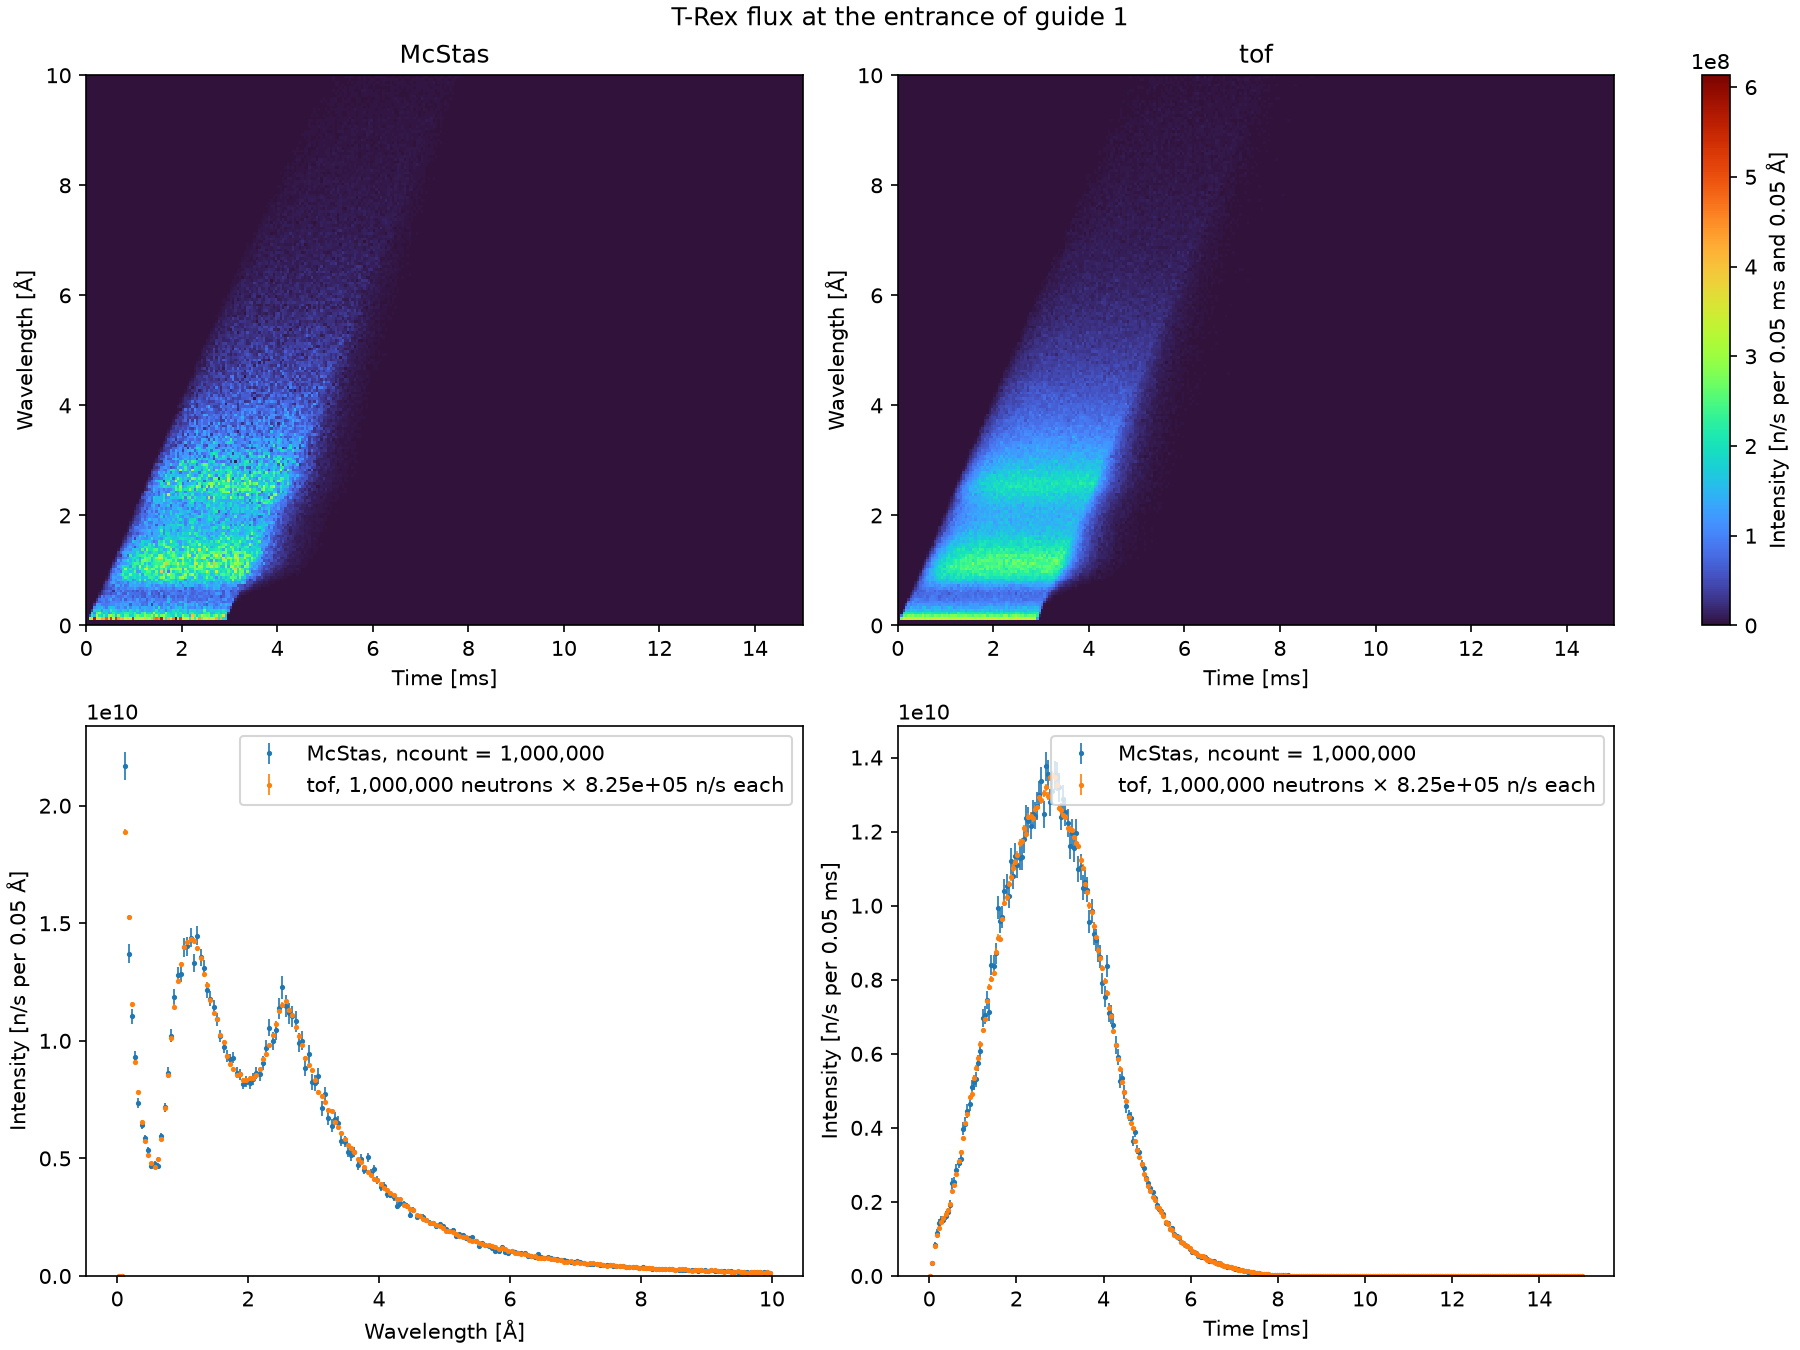
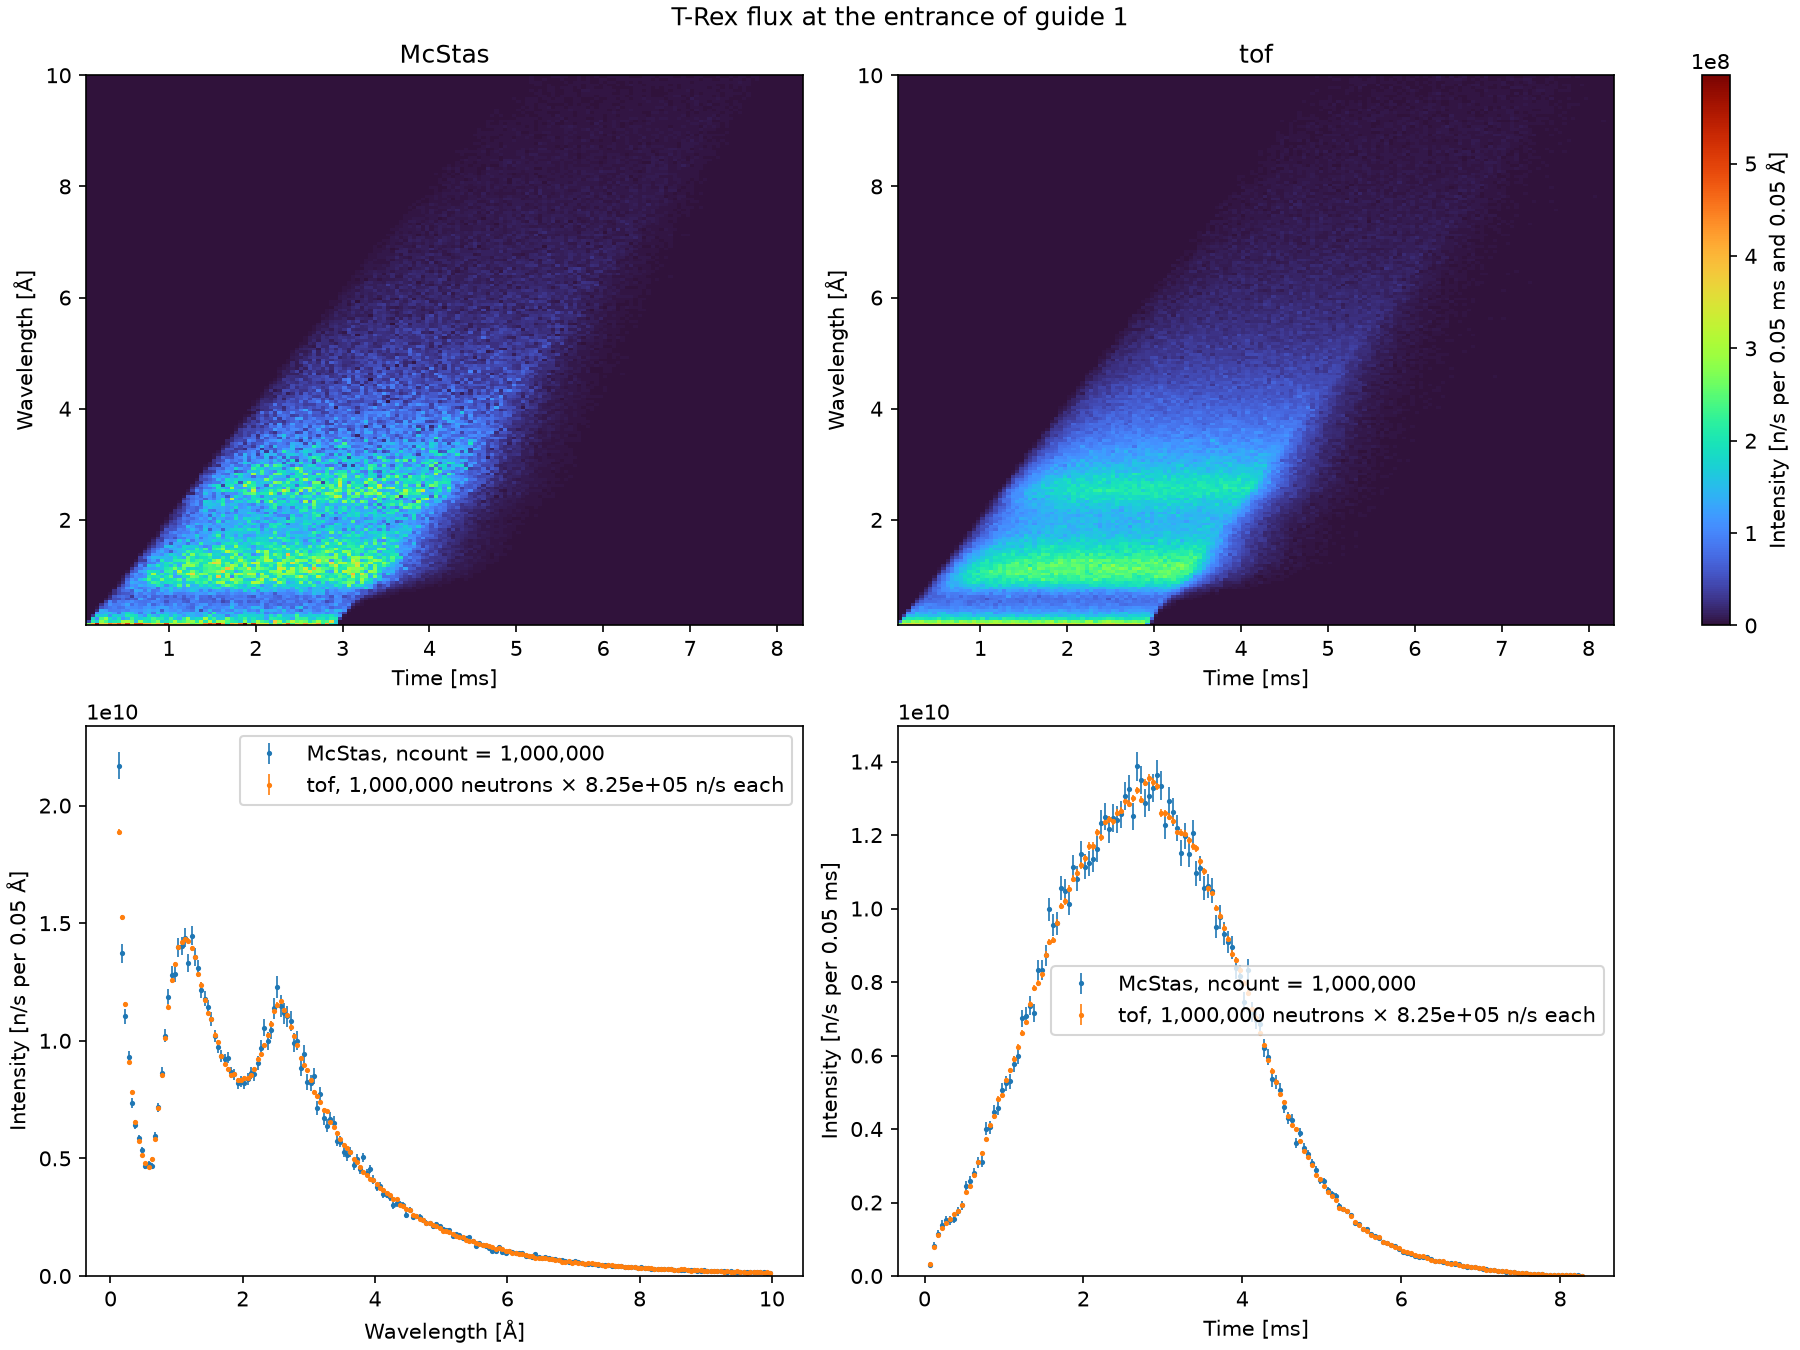
Move the source monitor to trex.monitors, and read the axes of monitors
source_monitor, beside beam_monitor and sample_monitor, sets its axes as
beam_monitor does: the band of the source, L_MIN to L_MAX, and the time
window of that band at SOURCE_MONITOR_Z, the entrance of guide 1, in bins
of SOURCE_MONITOR_LAMBDA_RESOLUTION and SOURCE_MONITOR_TIME_RESOLUTION,
0.05 Å and 0.05 ms. The axes are now 0.1 to 10 Å in 198 bins and 0.048 to
8.30 ms in 165, in place of 0 to 10 Å and 0 to 15 ms.

The source and extraction diagnostics read the bin edges from their
monitor's bin_limits, in place of working them out again. The Source page,
its figure and the monitors of the T-Rex details are made again.

diff --git a/src/mcdgs/instruments/trex/monitors.py b/src/mcdgs/instruments/trex/monitors.py
@@ -1,7 +1,8 @@
 """The monitors of T-Rex.
 
-Each monitor leaves the neutrons unchanged. The beam monitor sits in the middle of the bunker gap
-of row 29, after guide 4, on the arm of guide 4; the sample monitor at ``sample_pos``.
+Each monitor leaves the neutrons unchanged. The source monitor sits at the entrance of guide 1;
+the beam monitor in the middle of the bunker gap of row 29, after guide 4, on the arm of guide 4;
+the sample monitor at ``sample_pos``.
 """
 
 from mcdgs.core.components import Monitor_nD
@@ -12,12 +13,58 @@ from mcdgs.core.utils import bins_from_limits
 from .guides.bispectral import GUIDE_4_TILT, GUIDE_4A_IN_Z
 from .guides.extraction import z_along_arm
 
+SOURCE_MONITOR_Z = 1.895927  # m, cell B13, the entrance of guide 1
+SOURCE_MONITOR_LAMBDA_RESOLUTION = 0.05  # Å, the width of a wavelength bin
+SOURCE_MONITOR_TIME_RESOLUTION = 5e-5  # s, the width of a time bin, 0.05 ms
+
 BEAM_MONITOR_GAP_Z = 5.892  # m, cell B29
 BEAM_MONITOR_GAP_LENGTH = 0.02  # m, cell D29
 BEAM_MONITOR_Z = BEAM_MONITOR_GAP_Z + BEAM_MONITOR_GAP_LENGTH / 2  # m, mid-gap
-
 BEAM_MONITOR_LAMBDA_RESOLUTION = 0.02  # Å, the width of a wavelength bin
 BEAM_MONITOR_TIME_RESOLUTION = 5e-5  # s, the width of a time bin, 0.05 ms
+
+
+def source_monitor(
+    lambda_resolution: float = SOURCE_MONITOR_LAMBDA_RESOLUTION,
+    time_resolution: float = SOURCE_MONITOR_TIME_RESOLUTION,
+) -> Monitor_nD:
+    """Create the time and wavelength monitor at the entrance of guide 1.
+
+    It has the opening of guide 1 and is where guide 1 begins, ``SOURCE_MONITOR_Z`` from the
+    source on its axis, unrotated. It records one 2D map of time against wavelength, and leaves
+    the neutrons unchanged. The wavelength axis is the widest band the source simulates,
+    ``L_MIN`` to ``L_MAX``; the time axis is :func:`.monitor_time_limits` at
+    ``SOURCE_MONITOR_Z``, for that band and a pulse of ``ESS_SOURCE_LENGTH``.
+
+    Parameters
+    ----------
+    lambda_resolution:
+        Width of a wavelength bin, in Å. The axis has the fewest bins that cover the band, see
+        :func:`.bins_from_limits`.
+    time_resolution:
+        Width of a time bin, in s, likewise.
+
+    Returns
+    -------
+    :
+        A new monitor.
+    """
+    lambda_limits = (L_MIN, L_MAX)
+    time_limits = monitor_time_limits(SOURCE_MONITOR_Z, lambda_limits, ESS_SOURCE_LENGTH)
+    t_start, t_stop, t_bins = bins_from_limits(time_limits, time_resolution)
+    l_start, l_stop, l_bins = bins_from_limits(lambda_limits, lambda_resolution)
+    return Monitor_nD(
+        xwidth=0.089955,  # m, cell E13, the entrance of guide 1
+        yheight=0.029992,  # m, cell F13, the entrance of guide 1
+        restore_neutron=1,
+        options=(  # time in s, lambda in Å: one 2D map
+            f"time limits=[{t_start} {t_stop}] bins={t_bins} "
+            f"lambda limits=[{l_start} {l_stop}] bins={l_bins}"
+        ),
+        filename="source_monitor",  # the name of the monitor, in both models
+        at=[0, 0, SOURCE_MONITOR_Z],
+        relative="source",
+    )
 
 
 def beam_monitor(

diff --git a/src/mcdgs/diagnostics/trex/source.py b/src/mcdgs/diagnostics/trex/source.py
@@ -44,15 +44,13 @@ from mcdgs.core.components import ESS_butterfly, Monitor_nD
 from mcdgs.core.params import InstrParam
 from mcdgs.diagnostics.cli import output_folder, parse_out
 from mcdgs.diagnostics.compare import plot_comparison, read_comparison
+from mcdgs.instruments.trex.monitors import source_monitor
 from mcdgs.instruments.trex.sources import source
 from mcdgs.mcstas.simulation import Simulation
 from mcdgs.tof.builder import build_tof
 
+
 # --8<-- [start:trex_source]
-TIME_EDGES = np.linspace(0.0, 0.015, 301)  # s: the whole pulse and the flight up to 10 Å
-WAVELENGTH_EDGES = np.linspace(0.0, 10.0, 201)  # Å: the band of the source, 0.1 to 10 Å
-
-
 @dataclass(frozen=True)
 class TRexSourceParams:
     """Control parameters of :class:`TRexSource`: there are none."""
@@ -78,20 +76,8 @@ class TRexSource(Instrument):
 
     def __init__(self, params: TRexSourceParams | None = None) -> None:
         super().__init__(params)
-        self.source = source(l_min=0.1, l_max=10)
-        self.source_monitor = Monitor_nD(
-            xwidth=0.089955,  # m, cell E13, the entrance of guide 1
-            yheight=0.029992,  # m, cell F13, the entrance of guide 1
-            restore_neutron=1,
-            options=(  # time in s, lambda in Å: one 2D map
-                f"time limits=[{TIME_EDGES[0]} {TIME_EDGES[-1]}] bins={len(TIME_EDGES) - 1} "
-                f"lambda limits=[{WAVELENGTH_EDGES[0]} {WAVELENGTH_EDGES[-1]}] "
-                f"bins={len(WAVELENGTH_EDGES) - 1}"
-            ),
-            filename="source_monitor",  # the name of the monitor, in both models
-            at=[0, 0, 1.895927],  # m, cell B13, the entrance of guide 1
-            relative="source",
-        )
+        self.source = source()
+        self.source_monitor = source_monitor()
 
     @property
     def instr_params(self) -> list[InstrParam]:
@@ -141,9 +127,12 @@ def main(
     # --8<-- [start:run_tof]
     # run tof, then read the monitor of both on the bins of the McStas map: time, wavelength
     tof_result = build_tof(instrument, neutrons=neutrons, seed=seed).run()
+    limits = instrument.source_monitor.bin_limits  # the axes of the monitor, read from it
+    t_start, t_stop, t_bins = limits["time"]
+    l_start, l_stop, l_bins = limits["lambda"]
     bins = {
-        "toa": sc.array(dims=["toa"], values=TIME_EDGES, unit="s"),
-        "wavelength": sc.array(dims=["wavelength"], values=WAVELENGTH_EDGES, unit="Å"),
+        "toa": sc.linspace("toa", t_start, t_stop, t_bins + 1, unit="s"),
+        "wavelength": sc.linspace("wavelength", l_start, l_stop, l_bins + 1, unit="Å"),
     }
     # tof's counts are scaled to the total of McStas, in n/s
     comparison = read_comparison("source_monitor", mcstas_data, tof_result, bins, ncount, neutrons)

diff --git a/src/mcdgs/diagnostics/trex/extraction.py b/src/mcdgs/diagnostics/trex/extraction.py
@@ -30,10 +30,7 @@ from mcdgs.core.components import (
     Pol_bender,
     Progress_bar,
 )
-from mcdgs.core.components.monitors import monitor_time_limits
-from mcdgs.core.components.source import ESS_SOURCE_LENGTH, L_MAX, L_MIN
 from mcdgs.core.params import InstrParam, param
-from mcdgs.core.utils import bins_from_limits
 from mcdgs.diagnostics.cli import output_folder, parse_out
 from mcdgs.diagnostics.compare import plot_comparison, read_comparison
 from mcdgs.instruments.trex.guides.bispectral import (
@@ -44,12 +41,7 @@ from mcdgs.instruments.trex.guides.bispectral import (
     guide_4b,
 )
 from mcdgs.instruments.trex.guides.extraction import guides_extraction
-from mcdgs.instruments.trex.monitors import (
-    BEAM_MONITOR_LAMBDA_RESOLUTION,
-    BEAM_MONITOR_TIME_RESOLUTION,
-    BEAM_MONITOR_Z,
-    beam_monitor,
-)
+from mcdgs.instruments.trex.monitors import beam_monitor
 from mcdgs.instruments.trex.sources import source
 from mcdgs.mcstas.builder import build_mcstas, default_input_dir
 from mcdgs.mcstas.run_folders import default_output_dir, run_folder
@@ -162,17 +154,17 @@ def main(
         The paths of the figures, bender out then in: the diagnostics, then the comparison.
     """
     extraction = Extraction()
-    tof_result = build_tof(extraction, neutrons=neutrons, seed=seed).run()
-    # FIXME: the axes of Extraction's beam monitor, worked out again as beam_monitor does from
-    # its defaults: read them from the monitor instead, so that they cannot drift apart
-    band = (L_MIN, L_MAX)
-    time_limits = monitor_time_limits(BEAM_MONITOR_Z, band, ESS_SOURCE_LENGTH)
-    t_start, t_stop, t_bins = bins_from_limits(time_limits, BEAM_MONITOR_TIME_RESOLUTION)
-    l_start, l_stop, l_bins = bins_from_limits(band, BEAM_MONITOR_LAMBDA_RESOLUTION)
+
+    # the axes of the beam monitor, read from it so that they cannot drift apart
+    limits = extraction.beam_monitor.bin_limits
+    t_start, t_stop, t_bins = limits["time"]
+    l_start, l_stop, l_bins = limits["lambda"]
     bins = {  # the bin edges of the beam monitor's map, in its order: time, wavelength
         "toa": sc.linspace("toa", t_start, t_stop, t_bins + 1, unit="s"),
         "wavelength": sc.linspace("wavelength", l_start, l_stop, l_bins + 1, unit="Å"),
     }
+
+    tof_result = build_tof(extraction, neutrons=neutrons, seed=seed).run()
 
     # McStasScript's diagnostics, the same for both paths: the beam after the source, guide 3
     # and guide 4b, its profile, wavelength against x, and its spectrum

diff --git a/docs/instruments/trex/source.md b/docs/instruments/trex/source.md
@@ -13,17 +13,19 @@ It is the smallest T-Rex: two components and no McStas instrument parameters.
 | Component | What it is |
 | --------- | ---------- |
 | `source` | The T-Rex source, `ESS_butterfly` on beam port W7, one pulse at 2 MW, as in `TRex` but with the widest band, 0.1 to 10 Å, in place of the band around `lambda0`. |
-| `source_monitor` | A `Monitor_nD` at the entrance of guide 1, 1.895927 m from the source on its axis, unrotated, with the opening of guide 1: 0.089955 m wide and 0.029992 m high. |
+| `source_monitor` | `source_monitor()` of [`mcdgs.instruments.trex.monitors`](../../reference/trex.md), a `Monitor_nD` at the entrance of guide 1, 1.895927 m from the source on its axis, unrotated, with the opening of guide 1: 0.089955 m wide and 0.029992 m high. |
 
 The monitor records one 2D map of time against wavelength:
 
 | Axis | Range | Bins | Bin width |
 | ---- | ----- | ---- | --------- |
-| Time | 0 to 15 ms | 300 | 0.05 ms |
-| Wavelength | 0 to 10 Å | 200 | 0.05 Å |
+| Time | 0.048 to 8.30 ms | 165 | 0.05 ms |
+| Wavelength | 0.1 to 10 Å | 198 | 0.05 Å |
 
-15 ms holds the whole pulse and the flight to guide 1 up to 10 Å. The monitor has
-`restore_neutron=1`, so it does not change the beam.
+The wavelength axis is the band of the source. The time axis runs from the fastest neutron of
+that band, 0.1 Å leaving at the start of the pulse, to the slowest, 10 Å leaving at its end, so it
+holds every neutron of the source. Each axis has the fewest bins of its width that cover it. The
+monitor has `restore_neutron=1`, so it does not change the beam.
 
 `TRexSource` has no control parameters and no McStas parameters. It is defined like any instrument of mcdgs: a parameters class, then an `Instrument` subclass that
 creates its components in beam order, with their positions.
@@ -125,7 +127,7 @@ same is `scale × neutrons ≈ Φ / f`, the n/s of the whole tof pulse. That dep
   the rays of McStas pass, so which part of the flux Φ is. tof has no apertures: only its choppers
   remove neutrons, so here every tof neutron reaches the monitor, whatever its size. Move or
   resize the monitor and Φ, so the scale, changes.
-- **The window of the bins.** The edges, 0 to 15 ms and 0 to 10 Å, set both which part of Φ is
+- **The window of the bins.** The edges, 0.048 to 8.30 ms and 0.1 to 10 Å, set both which part of Φ is
   counted and f. If tof's pulse reaches beyond 10 Å, f is below 1. At the defaults of `main`,
   8.25e11 n/s and 8.25e5 n/s per tof neutron make 1.00e6 neutrons in the bins, as many as were
   drawn: here f is 1, to three figures.
@@ -226,7 +228,7 @@ instantaneous rate (n/s) = time profile (n/s per bin) / 14 Hz / 0.05 ms
 ```
 
 Its maximum is the peak rate. At the entrance of guide 1, in the map of `main` at its defaults,
-it is 1.9e13 n/s at 2.9 ms, some 23 times the average. That is what the length of the pulse
+it is 2.0e13 n/s at 2.7 ms, some 24 times the average. That is what the length of the pulse
 suggests: most of the 5.9e10 neutrons of a pulse arrive within about 3 ms, and
 5.9e10 / 3 ms ≈ 2e13 n/s.
 

diff --git a/docs/instruments/trex/details.md b/docs/instruments/trex/details.md
@@ -173,19 +173,22 @@ choppers 1 and 2, beam monitor 1, the P-Chopper and the M-Chopper. The choppers 
 
 ## Monitors
 
-Both monitors leave the neutrons unchanged. They are in
+`TRex` has two monitors, `beam_monitor` and `sample_monitor`; `source_monitor` is that of
+[`TRexSource`](source.md). All three leave the neutrons unchanged. They are in
 [`mcdgs.instruments.trex.monitors`](../../reference/trex.md).
 
 | Monitor | Where | Size | What it records |
 | ------- | ----- | ---- | --------------- |
+| `source_monitor` | At the entrance of guide 1, 1.895927 m from the source on its axis | 0.089955 m × 0.029992 m | Time against wavelength, in bins of 0.05 ms and 0.05 Å |
 | `beam_monitor` | In the middle of the bunker gap of row 29, after guide 4, 5.902 m along the beam, on the arm of guide 4 | 0.06 m × 0.0463 m | Time against wavelength, in bins of 0.05 ms and 0.02 Å |
 | `sample_monitor` | At `sample_pos` | 0.1 m × 0.1 m | Wavelength, 0.5 to 5.3 Å in 12 bins |
 
-The wavelength axis of `beam_monitor` is the band of the source. Its time axis runs from the
-fastest neutron of that band, leaving at the start of the pulse, to the slowest, leaving 3.5 ms
-later. Each axis has the fewest bins of its width that cover it, so its stop moves up to the end
-of the last bin: at the default `lambda0`, 1.095 to 2.915 Å in 91 bins and 1.63 to 7.83 ms in
-124.
+The axes of `source_monitor` and `beam_monitor` follow one rule. The wavelength axis is the band
+of the source. The time axis runs from the fastest neutron of that band, leaving at the start of
+the pulse, to the slowest, leaving 3.5 ms later. Each axis has the fewest bins of its width that
+cover it, so its stop moves up to the end of the last bin. `source_monitor` has the widest band,
+0.1 to 10 Å in 198 bins and 0.048 to 8.30 ms in 165. `beam_monitor` has the band around
+`lambda0`: at its default, 1.095 to 2.915 Å in 91 bins and 1.63 to 7.83 ms in 124.
 
 ## Chopper timing
 
